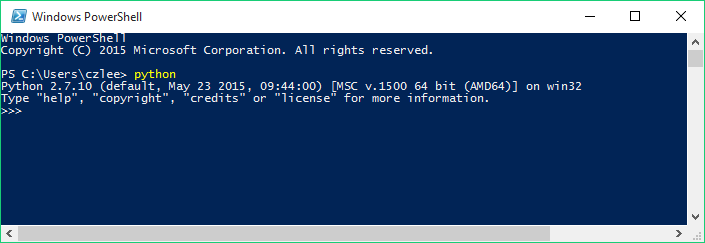
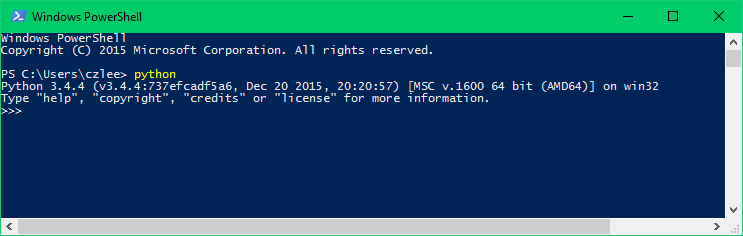
Convert Windows installation documentation to reStructuredText

diff --git a/docs/installation/windows.rst b/docs/installation/windows.rst
@@ -7,31 +7,34 @@ Installing locally on Windows
 Before you start, be sure to read our general information on :ref:`local installations <install-local>` to help you understand what's going on.
 
 Requisite technical background
-=======================================================================
+================================================================================
 
 You need to be familiar with command-line interfaces to get through this comfortably. While a background in the specific tools (Python, *etc.*) we use will make things easier for you, it's not necessary: we'll talk you through the rest. You just need to be prepared to bear with us. It'll take a while the first time, but it gets easier after that.
 
 In these instructions, we'll use **Windows PowerShell**, a command-line interface that comes with every installation of Windows (since XP). The easiest way to find it (on Windows 7 and later) is to search for it in your Start Menu. Every line in the instructions that begins with ``>`` is a command that you need to run in PowerShell, but without the ``>``: that sign is a convention used in instructions to make it clear that it is a command you need to run.
 
-.. note:: Advanced users: Tabbycat is a Django project, so can be installed in any manner that Django projects can normally be installed. For example, if you prefer some SQL system other than PostgreSQL, you can use it so long as it's Django-compatible. Just be aware that we might not have tried it.
+.. admonition:: Advanced users
+  :class: tip
+
+  Tabbycat is a Django project, so can be installed in any manner that Django projects can normally be installed. For example, if you prefer some SQL system other than PostgreSQL, you can use it so long as it's Django-compatible. Just be aware that we might not have tried it.
 
 1. Install dependencies
-=======================================================================
+================================================================================
 
 First, you need to install all of the software on which Tabbycat depends, if you don't already have it installed.
 
 1(a). Python
--------------------------------------------------------------------------
+--------------------------------------------------------------------------------
   *Python is a popular programming language, and the language in which the core of Tabbycat is coded.*
 
-`Download and install Python 3.4 <https://www.python.org/downloads/release/python-344/>`_. Take note of the following:
+Download and install Python 3.4 from the `Python website <https://www.python.org/downloads/release/python-344/>`_. Take note of the following:
 
 - Which link should I click?
     - If you have 32-bit Windows, choose the "Windows x86 MSI installer".
-    - If you have 64-bit Windows (and not an Itanium processor), you can choose either of the two MSI installers, but it's better to choose the "Windows x86-64 MSI installer".
+    - If you have 64-bit Windows (and not an Itanium processor), it's better to choose the "Windows x86-64 MSI installer".
     - If you're not sure whether you have 32-bit or 64-bit Windows, consult "About your PC" or "System Properties" in your Start Menu.
-- Your installation path must not have spaces in it. The default install directory is ``C:\Python34``; we recommend that you keep it there.
-- **Important! When you get to the Customize screen, change "Add python.exe to Path" to "Will be installed on local hard drive"**, as shown below:
+- The default install directory is ``C:\Python34``; we recommend that you keep it there.
+- **Important!** When you get to the Customize screen, **change "Add python.exe to Path" to "Will be installed on local hard drive"**:
 
 .. image:: images/python-windows-path.png
 
@@ -41,54 +44,60 @@ To check that Python is installed correctly, open Windows PowerShell, type ``pyt
 
 (To exit Python, type ``exit()`` then press Enter.)
 
-**If you already have Python**, great! There are some things you should double-check about your installation:
+.. note:: **If you already have Python**, great! Some things to double-check:
 
-- You must have Python 3.4. No other versions of Python are supported.
-- Your installation directory must not have any spaces in it. The default install directory is ``C:\Python34``, so yours is probably there. But it's not allowed to be in, for example, ``C:\Program Files\Python34``.
-- The following must be part of your `PATH` environment variable: ``C:\Python34;C:\Python34\Scripts``.
+  - You must have Python 3.4, not any other version.
+  - Your installation directory must not have any spaces in it.
+  - The following must be part of your ``PATH`` environment variable: ``C:\Python34;C:\Python34\Scripts`` (or as appropriate for your installation directory).
+
+.. note:: The reason we can't use Python 3.5 is because it isn't (as of January 2016) supported by `psycopg2 <http://www.stickpeople.com/projects/python/win-psycopg/>`_, which is a dependency of Tabbycat.
 
 1(b). PostgreSQL
--------------------------------------------------------------------------
+--------------------------------------------------------------------------------
   *PostgreSQL is a database management system.*
 
-[**Follow this link** to the PostgreSQL downloads page](http://www.postgresql.org/download/windows/), then follow the link through to EnterpriseDB to download and install the latest version of PostgreSQL.
+Go to the `PostgreSQL downloads page <http://www.postgresql.org/download/windows/>`_, then follow the link through to EnterpriseDB to download and install the latest version of PostgreSQL.
 
-> *Note: Once PostgreSQL is installed, the PostgreSQL service will run on your computer whenever you are using it. You might prefer to configure it so that it only runs when you want to run Tabbycat. To do this, open "Services" in your Control Panel on Windows, find the PostgreSQL service, and change its startup type to "Manual". This will tell it not to start whenever you log in. Then, if you want to run the server (so you can use Tabbycat), you can do so from "Services" by selecting the PostgreSQL service and clicking "Start the service".*
+.. tip:: Once PostgreSQL is installed, the PostgreSQL service will run on your computer whenever you are using it. You might prefer to configure it so that it only runs when you want to run Tabbycat. To do this, open "Services" in your Control Panel on Windows, find the PostgreSQL service, and change its startup type to "Manual". This will tell it not to start whenever you log in. Then, if you want to run the server (so you can use Tabbycat), you can do so from "Services" by selecting the PostgreSQL service and clicking "Start the service".
 
 2. Get the source code
-=======================================================================
+================================================================================
 
 There are two ways to get the source code: by using Git, or by downloading a release zip file. If you can, we encourage you to use Git. It'll be easier to keep up to date with Tabbycat and to deploy to a Heroku installation later. However, Git can be confusing for first-timers, so if you just want to get going, the zip file will do fine.
 
 Option 1: Clone the Git repository
--------------------------------------------------------------------------
+--------------------------------------------------------------------------------
 
->*Git is a revision control system widely used in software development.*
+  *Git is a revision control system widely used in software development.*
 
-1. If you don't already have Git, [**follow this link**, and install GitHub for Windows](https://help.github.com/articles/set-up-git/).
-2. [Click here to **clone the repository** in your GitHub desktop client](github-windows://openRepo/https://github.com/czlee/tabbycat). That link will ask to open an external application, namely GitHub.
+1. If you don't already have Git, follow the `instructions on the GitHub website <https://help.github.com/articles/set-up-git>`_ to set up Git.
+2. `Click here to clone the repository in your GitHub desktop client <github-windows://openRepo/https://github.com/czlee/tabbycat>`_. That link will ask to open an external application, namely GitHub.
 
-> *Note: The link above is the same one as the <img src="https://raw.githubusercontent.com/wiki/czlee/tabbycat/images/installation/github-clone-in-desktop.png" alt="Clone in Desktop" /> link on the right-hand side of the <a href="https://github.com/czlee/tabbycat/">repository home page</a>.*
+.. |github-clone-desktop| image:: images/github-clone-in-desktop.png
+.. note:: The link above is the same one as the button |github-clone-desktop| on the `repository page <https://github.com/czlee/tabbycat/>`_.
 
-> *Advanced users: Cloning from the command line works too. Also, if you have a GitHub account, you might like to fork the repository first, to give yourself a little more freedom.*
+.. admonition:: Advanced users
+  :class: tip
+
+  Cloning from the command line works too. Also, if you have a GitHub account, you might like to fork the repository first, to give yourself a little more freedom.
 
 Option 2: Download a release package
--------------------------------------------------------------------------
+--------------------------------------------------------------------------------
 
-1. [**Follow this link** to our release packages page](https://github.com/czlee/tabbycat/releases).
+1. `Go to our release packages page <https://github.com/czlee/tabbycat/releases>`_.
 2. Download the latest zip file (or tar.gz if you prefer).
 3. Extract all files in it to a folder of your choice.
 
 3. Set up a new database
-=======================================================================
+================================================================================
+
+.. hint:: You can skip steps 2 and 3 if this is not your first installation. Every Tabbycat installation requires its own database, but they can use the same login role if you like.
 
 1. Open the **pgAdmin** tool, which you installed as part of installing PostgreSQL. In the object browser on the left, double-click the server marked "(localhost:5432)". Log in using the password you set during installation.
 
-   > *You can skip steps 2 and 3 if this is not your first installation. Every Tabbycat installation requires its own database, but they can use the same login role if you like.*
-
 2. Right-click Login Roles, and click "New Login Role…"
 
-   ![Where to find the New Login Role command](https://raw.githubusercontent.com/wiki/czlee/tabbycat/images/installation/pgadmin-new-login-role-menu.png)
+  .. image:: images/pgadmin-new-login-role-menu.png
 
 3. Fill in the New Login Role box as follows (everything not listed below can be left as-is):
 
@@ -99,78 +108,79 @@ Option 2: Download a release package
 
 4. Right-click Databases, and click "New Database…"
 
-   ![Where to find the New Database command](https://raw.githubusercontent.com/wiki/czlee/tabbycat/images/installation/pgadmin-new-database-menu.png)
+  .. image:: images/pgadmin-new-database-menu.png
 
 5. Fill in the New Database box as follows (everything not listed below can be left as-is):
+
    - In the **Properties** tab, in **Name**, choose a database name (with no spaces in it).
    - In the **Properties** tab, in **Owner**, type the name of the login role you just created.
 
    Then click OK. (Remember the database name, you'll need it later.)
 
 4. Install Tabbycat
-=======================================================================
+================================================================================
 
 Almost there!
 
-1. Open a Windows PowerShell (no administrative privileges required). Navigate to the folder where you cloned/extracted Tabbycat. For example, if you installed it in `C:\Users\myusername\Documents\GitHub\tabbycat`, then run
+1. Open a Windows PowerShell. Navigate to the folder where you cloned/extracted Tabbycat. For example, if you installed it in ``C:\Users\myusername\Documents\GitHub\tabbycat``, then run::
 
     > Set-Location C:\Users\myusername\Documents\GitHub\tabbycat
 
-2. Make a copy of **local_settings.example** and rename it to **local_settings.py**. (You can do this in File Explorer.) Open your new local_settings.py. Find this part, and fill in the blanks (the empty quotation marks) as indicated:
+2. Make a copy of **local_settings.example** and rename it to **local_settings.py**. Open your new local_settings.py. Find this part, and fill in the blanks (the empty quotation marks) as indicated:
 
-    DATABASES = {
-       'default': {
-           'ENGINE'  : 'django.db.backends.postgresql_psycopg2',
-           'NAME'    : '',  # put your PostgreSQL database's name in here
-           'USER'    : '',  # put your PostgreSQL login role's user name in here
-           'PASSWORD': '',  # put your PostgreSQL login role's password in here
-           'HOST':     'localhost',
-           'PORT':     '5432',
-       }
-    }
+  .. code:: python
 
-3. Start a new virtual environment. We suggest the name `venv`, though it can be any name you like.
+     DATABASES = {
+         'default': {
+             'ENGINE'  : 'django.db.backends.postgresql_psycopg2',
+             'NAME'    : '',  # put your PostgreSQL database's name in here
+             'USER'    : '',  # put your PostgreSQL login role's user name in here
+             'PASSWORD': '',  # put your PostgreSQL login role's password in here
+             'HOST':     'localhost',
+             'PORT':     '5432',
+         }
+     }
 
-    > virtualenv venv
+3. Start a new virtual environment. We suggest the name `venv`, though it can be any name you like::
 
-4. Run the `activate` script. This puts you "into" the virtual environment.
+    > python -m venv venv
+
+4. Run the `activate` script. This puts you "into" the virtual environment::
 
     > .\venv\Scripts\activate
 
 5. Install Tabbycat's requirements.
 
-   If you installed **32-bit Python**:
+  If you installed **32-bit Python**::
 
-    > pip install --upgrade pip
+    > python -m pip install --upgrade pip
     > easy_install http://www.stickpeople.com/projects/python/win-psycopg/2.6.1/psycopg2-2.6.1.win32-py2.7-pg9.4.4-release.exe
     > pip install -r requirements_common.txt
 
-   If you installed **64-bit Python**:
+  If you installed **64-bit Python**::
 
-    > pip install --upgrade pip
+    > python -m pip install --upgrade pip
     > easy_install http://www.stickpeople.com/projects/python/win-psycopg/2.6.1/psycopg2-2.6.1.win-amd64-py2.7-pg9.4.4-release.exe
     > pip install -r requirements_common.txt
 
-   > *Note: Because you're on Windows, the <code>psycopg2</code> package won't work. There is a good Windows version called <a href="http://www.stickpeople.com/projects/python/win-psycopg/">win-psycopg</a>, which we'll use instead. The purpose of the second line above is to install it, and therefore stop the third line—which installs everything—from trying to install the Unix version.*
-   > *You might be wondering: I thought I already installed the requirements. Why am I installing more? And the answer is: Before, you were installing the requirements to create a Python virtual environment for Tabbycat to live in. Now, you're <em>in</em> the virtual environment, and you're installing everything required for <em>Tabbycat</em> to operate.*
+.. attention:: Because you're on Windows, the ``psycopg2`` package won't work. There is a good Windows version called `win-psycopg <http://www.stickpeople.com/projects/python/win-psycopg/>`_, which we'll use instead. The purpose of the second line above is to install it, and therefore stop the third line—which installs everything—from trying to install the Unix version.
 
-6. Initialize the database and create a user account for yourself.
+.. hint:: You might be wondering: I thought I already installed the requirements. Why am I installing more? And the answer is: Before, you were installing the requirements to create a Python virtual environment for Tabbycat to live in. Now, you're *in* the virtual environment, and you're installing everything required for *Tabbycat* to operate.
 
-    ```
+6. Initialize the database and create a user account for yourself::
+
     > dj makemigrations debate
     > dj migrate
     > dj createsuperuser
-    ```
 
 7. Start Tabbycat!
 
-    ```
+  ::
+
     > dj runserver
-    ```
 
-   It should show something like this:
+  It should show something like this::
 
-    ```
     Performing system checks...
 
     System check identified no issues (0 silenced).
@@ -178,23 +188,20 @@ Almost there!
     Django version 1.8.2, using settings 'settings'
     Starting development server at http://127.0.0.1:8000/
     Quit the server with CTRL-BREAK.
-    ```
 
 8. Open your browser and go to the URL printed above. (In the above example, it's http://127.0.0.1:8000/.) It should look something like this:
 
-   ![Bare Tabbycat installation](https://raw.githubusercontent.com/wiki/czlee/tabbycat/images/tabbycat-bare-windows.png)
+  .. image:: images/tabbycat-bare-windows.png
 
-   If it does, great! You've successfully installed Tabbycat.
+  If it does, great! You've successfully installed Tabbycat.
 
-Naturally, your database is currently empty, so proceed to **[[importing initial data]]**.
+Naturally, your database is currently empty, so proceed to :ref:`importing initial data <importing-initial-data>`.
 
 Starting up an existing Tabbycat instance
-=======================================================================
+================================================================================
 
-To start your Tabbycat instance up again next time you use your computer, open a PowerShell and:
+To start your Tabbycat instance up again next time you use your computer, open a PowerShell and::
 
-    ``` powershell
     > Set-Location C:\Users\myusername\Documents\GitHub\tabbycat # or wherever your installation is
     > .\venv\Scripts\activate
     > dj runserver
-    ```

diff --git a/docs/installation/linux.rst b/docs/installation/linux.rst
@@ -11,13 +11,19 @@ Requisite technical background
 
 You need to be familiar with command-line interfaces to get through this comfortably. While a background in the specific tools (Python, *etc.*) we use will make things easier for you, it's not necessary: we'll talk you through the rest.
 
-.. note:: Advanced users: Tabbycat is a Django project, so can be installed in any manner that Django projects can normally be installed. For example, if you prefer some SQL system other than PostgreSQL, you can use it so long as it's Django-compatible. Just be aware that we might not have tried it.
+.. admonition:: Advanced users
+  :class: tip
+
+  Tabbycat is a Django project, so can be installed in any manner that Django projects can normally be installed. For example, if you prefer some SQL system other than PostgreSQL, you can use it so long as it's Django-compatible. Just be aware that we might not have tried it.
 
 1. Install dependencies
 ================================================================================
 First, you need to install all of the software on which Tabbycat depends, if you don't already have it installed.
 
-.. caution:: **These instructions are for Ubuntu.** If you have another distribution of Linux, we trust you'll know how to navigate the package manager for your distribution to install the dependencies.
+.. admonition:: Advanced users
+  :class: tip
+
+  **These instructions are for Ubuntu.** If you have another distribution of Linux, we trust you'll know how to navigate the package manager for your distribution to install the dependencies.
 
 1(a). Python
 --------------------------------------------------------------------------------
@@ -34,10 +40,7 @@ If it's not installed, run ``sudo apt-get install python3``, or `download the la
 
 1(b). Pyvenv
 --------------------------------------------------------------------------------
-  *Virtualenv allows you to create separate, isolated virtual Python environments,
-  each with their own packages installed.*
-
-**If you installed Python 3.5 or later:** ``pyvenv-3.5`` should already be working.
+**If you installed Python 3.5 or later:** ``pyvenv-3.5`` (or whatever your version is) should already be working.
 
 **If you are using Python 3.4:** Ubuntu 14.04 had a `broken pyvenv-3.4 package
 <https://bugs.launchpad.net/ubuntu/+source/python3.4/+bug/1290847>`_,
@@ -45,7 +48,10 @@ so there is a small workaround to get it to work.::
 
     $ sudo apt-get install python3.4-venv
 
-.. note:: If you prefer, you can use `Virtualenv <https://virtualenv.pypa.io/en/latest/installation.html>`_ instead.
+.. admonition:: Advanced users
+  :class: tip
+
+  If you prefer, you can use `Virtualenv <https://virtualenv.pypa.io/en/latest/installation.html>`_ instead.
 
 1(c). PostgreSQL
 --------------------------------------------------------------------------------
@@ -69,7 +75,7 @@ Option 1: Clone the Git repository
 
 If you don't have Git, install it first using ``sudo apt-get install git``.
 
-.. note:: If you have a GitHub account, you might like to fork the repository
+.. tip:: If you have a GitHub account, you might like to fork the repository
     first, to give yourself a little more freedom.
 
 Option 2: Download a release package
@@ -86,7 +92,7 @@ Option 2: Download a release package
 3. Set up a new database
 ================================================================================
 
-.. note:: You can skip step 1 if this is not your first installation. Every Tabbycat installation requires its own database, but they can use the same login role if you like.
+.. hint:: You can skip step 1 if this is not your first installation. Every Tabbycat installation requires its own database, but they can use the same login role if you like.
 
 1. Create a new user account with a password, replacing ``myusername`` with whatever name you prefer. If you don't know what username to pick, use ``tabbycat``.
 
@@ -94,7 +100,7 @@ Option 2: Download a release package
 
     $ sudo -u postgres createuser myusername --pwprompt
 
-  .. note:: If you'll be running multiple instances of Tabbycat, developing, or diving into the database yourself, you might find it convenient to set up client authentication so that you don't need to do all manual operations from ``sudo -u postgres``. See the `PostgreSQL documentation on client authentication <http://www.postgresql.org/docs/9.4/static/client-authentication.html>`_ for more information. For example, you could add a ``local all myusername md5`` line to the ``pg_hba.conf`` file, or you could define a mapping in ``pg_ident.conf`` and append the ``map=`` option to the ``local all all peer`` line. If you want your new PostgreSQL account to be able to create databases, add ``--createdb`` to the above command.
+  .. tip:: If you'll be running multiple instances of Tabbycat, developing, or diving into the database yourself, you might find it convenient to set up client authentication so that you don't need to do all manual operations from ``sudo -u postgres``. See the `PostgreSQL documentation on client authentication <http://www.postgresql.org/docs/9.4/static/client-authentication.html>`_ for more information. For example, you could add a ``local all myusername md5`` line to the ``pg_hba.conf`` file, or you could define a mapping in ``pg_ident.conf`` and append the ``map=`` option to the ``local all all peer`` line. If you want your new PostgreSQL account to be able to create databases, add ``--createdb`` to the above command.
 
 2. Create a new database, replacing ``mydatabasename`` with whatever name you prefer, probably the name of the tournament you're running::
 

diff --git a/docs/installation/local.rst b/docs/installation/local.rst
@@ -17,11 +17,12 @@ Should I use a local installation, or one on the internet?
 ==========================================================
 
 You should use a local installation if:
+
 - you won't have access to the internet at your tournament, or internet access will be flaky
 - your tournament is small, doesn't require a public interface and you have a good technical background
 - you're involved in or interested in developing Tabbycat
 
-In most cases, you'll want to run Tabbycat on an internet-accessible site. Have a look at [[installing on Heroku]] to see how.
+In most cases, you'll want to run Tabbycat on an internet-accessible site. Have a look at :ref:`install-heroku` to see how.
 
 If you're trying out Tabbycat for the first time and just want to see it in action, it's probably easier overall to create a Heroku account and install it on Heroku. But if you're happy to install all the dependencies or want to get more visibility into what's going on, a local installation is also a great way to try it out.
 
@@ -34,7 +35,7 @@ Instructions are here:
 - :ref:`install-osx`
 - :ref:`install-windows`
 
-.. note:: If you're expecting not to have reliable internet access, be sure to have fully installed Tabbycat **before** you get to your tournament.
+.. attention:: If you're expecting not to have reliable internet access, be sure to have fully installed Tabbycat **before** you get to your tournament.
 
 Advanced uses
 =============
@@ -54,7 +55,7 @@ We don't provide detailed instructions for this; we leave it for advanced users 
 Can I run an internet-accessible website from a local installation?
 -------------------------------------------------------------------
 
-Probably not. Even if you disable your firewall, chances are your home router (or university router) will block any connections from the outside world to you. Even if you can though, **you really shouldn't**. The local installation uses the *Django development server*, which is a lightweight server designed for developers. Specifically, Django **does not test the security of its development server** in the way that proper web servers do. That is: It's a security risk to run a local installation as an internet-accessible site. Don't do it. [[Install Tabbycat on Heroku|installing on Heroku]] instead.
+Probably not. Even if you disable your firewall, chances are your home router (or university router) will block any connections from the outside world to you. Even if you can though, **you really shouldn't**. The local installation uses the *Django development server*, which is a lightweight server designed for developers. Specifically, Django **does not test the security of its development server** in the way that proper web servers do. That is: It's a security risk to run a local installation as an internet-accessible site. Don't do it. `Install Tabbycat on Heroku <install-heroku>`_ instead.
 
 Alternatively, if you have a background in web development, you might choose to install Tabbycat on your own production server. It's a Django project, so any means of supporting Django projects should work fine.
 
